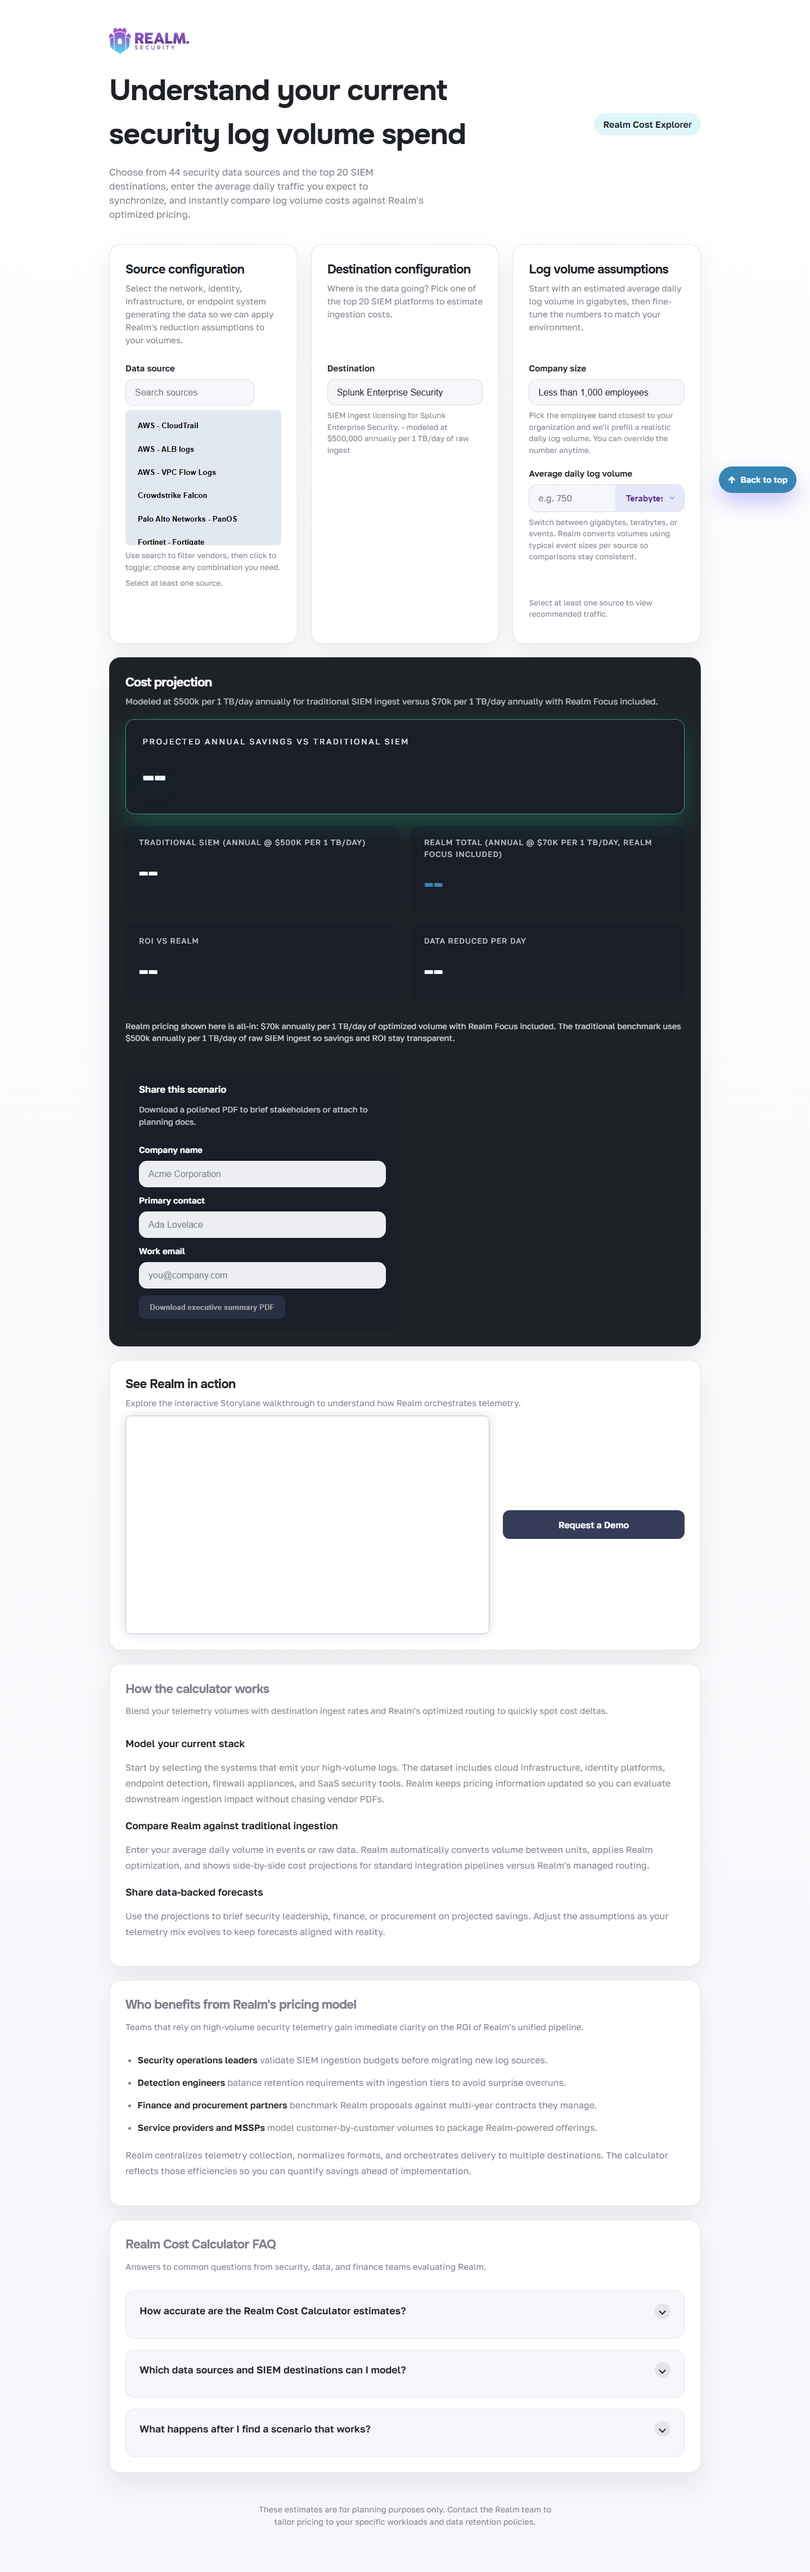
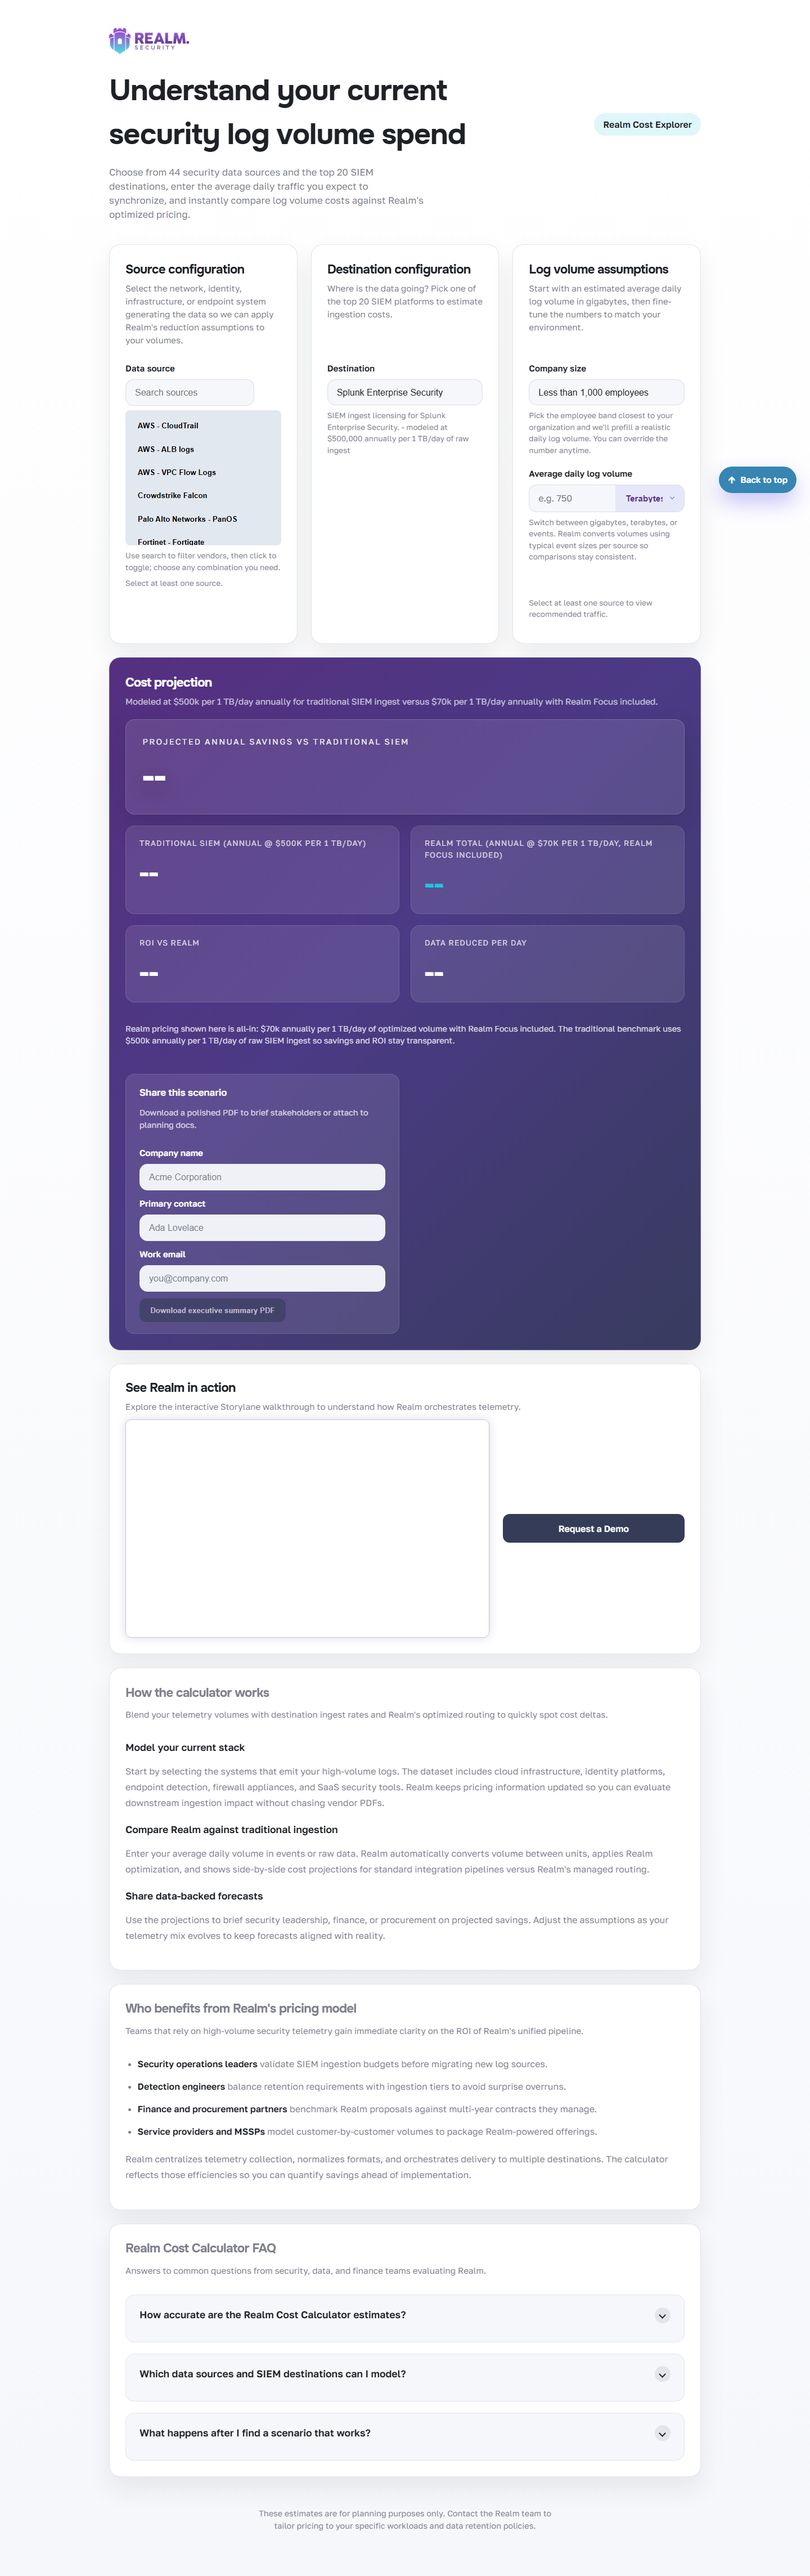
UI: restyle cost projection panel
- Update accent panel + metrics cards to Realm purple/cyan theme

- Refresh PR screenshots

diff --git a/src/styles.css b/src/styles.css
@@ -122,9 +122,9 @@ body {
 
 .panel--accent {
   grid-column: 1 / -1;
-  background: var(--surface-accent);
+  background: linear-gradient(135deg, #562f80 0%, #4b3a85 45%, #343c57 110%);
   color: var(--text-inverse);
-  border-color: rgba(248, 250, 252, 0.12);
+  border-color: rgba(255, 255, 255, 0.14);
 }
 
 .panel__header {
@@ -365,19 +365,20 @@ body {
 }
 
 .metrics__item {
-  background: rgba(15, 23, 42, 0.18);
+  background: rgba(255, 255, 255, 0.1);
+  border: 1px solid rgba(255, 255, 255, 0.12);
   border-radius: 1rem;
   padding: 1.25rem 1.5rem;
 }
 
 .panel--accent .metrics__item {
-  background: rgba(15, 23, 42, 0.28);
+  background: rgba(255, 255, 255, 0.1);
 }
 
 .metrics__item--savings {
-  background: linear-gradient(135deg, rgba(16, 185, 129, 0.35), rgba(8, 145, 117, 0.48));
-  border: 1px solid rgba(110, 231, 183, 0.55);
-  box-shadow: 0 18px 45px rgba(16, 185, 129, 0.28);
+  background: rgba(255, 255, 255, 0.12);
+  border: 1px solid rgba(255, 255, 255, 0.18);
+  box-shadow: 0 18px 45px rgba(30, 34, 39, 0.18);
   padding: 1.75rem 1.85rem;
 }
 
@@ -408,13 +409,13 @@ body {
 }
 
 .metrics__value--highlight {
-  color: var(--accent);
+  color: var(--realm-accent, var(--accent));
 }
 
 .metrics__value--savings {
   font-size: clamp(2.4rem, 3.2vw + 1.2rem, 3.4rem);
-  color: #ecfdf5;
-  text-shadow: 0px 14px 34px rgba(16, 185, 129, 0.32);
+  color: #ffffff;
+  text-shadow: 0px 14px 34px rgba(30, 34, 39, 0.28);
 }
 
 .metrics__value--with-tooltip {
@@ -426,9 +427,9 @@ body {
 
 .metrics__tooltip-trigger {
   appearance: none;
-  border: 1px solid rgba(148, 163, 184, 0.45);
-  background: rgba(148, 163, 184, 0.15);
-  color: rgba(226, 232, 240, 0.9);
+  border: 1px solid rgba(255, 255, 255, 0.35);
+  background: rgba(255, 255, 255, 0.12);
+  color: rgba(255, 255, 255, 0.9);
   width: 1.75rem;
   height: 1.75rem;
   border-radius: 999px;
@@ -444,8 +445,8 @@ body {
 
 .metrics__tooltip-trigger:hover,
 .metrics__tooltip-trigger:focus-visible {
-  background: rgba(148, 163, 184, 0.32);
-  border-color: rgba(226, 232, 240, 0.6);
+  background: rgba(255, 255, 255, 0.22);
+  border-color: rgba(255, 255, 255, 0.5);
   color: var(--text-inverse);
   outline: none;
 }
@@ -460,11 +461,11 @@ body {
   left: 50%;
   bottom: calc(100% + 0.75rem);
   transform: translate(-50%, 0.4rem);
-  background: rgba(15, 23, 42, 0.95);
+  background: rgba(52, 60, 87, 0.96);
   color: var(--text-inverse);
   padding: 0.65rem 0.9rem;
   border-radius: 0.75rem;
-  box-shadow: 0 20px 45px rgba(15, 23, 42, 0.35);
+  box-shadow: 0 20px 45px rgba(30, 34, 39, 0.3);
   font-size: 0.9rem;
   line-height: 1.45;
   min-width: 220px;
@@ -485,7 +486,7 @@ body {
   transform: translate(-50%, 0.4rem);
   border-width: 0.45rem;
   border-style: solid;
-  border-color: rgba(15, 23, 42, 0.95) transparent transparent transparent;
+  border-color: rgba(52, 60, 87, 0.96) transparent transparent transparent;
   opacity: 0;
   visibility: hidden;
   pointer-events: none;
